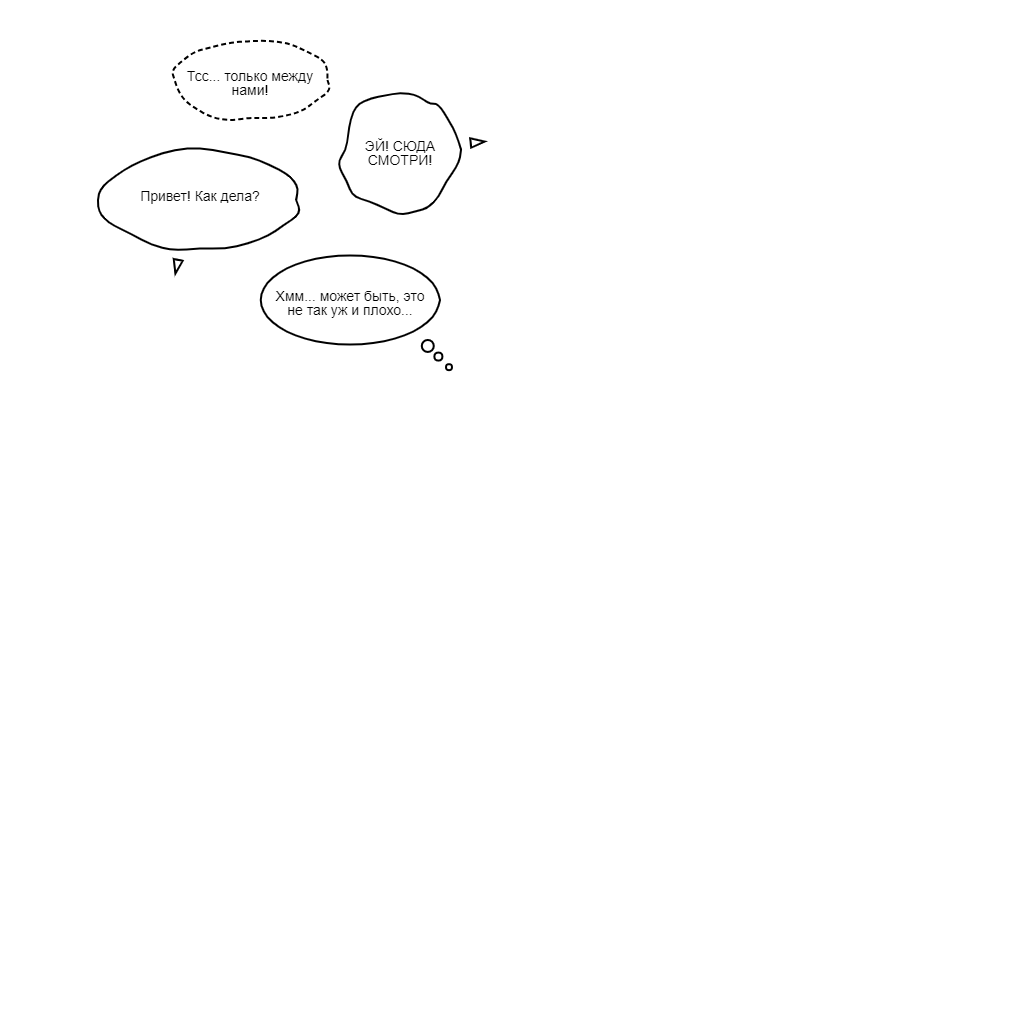
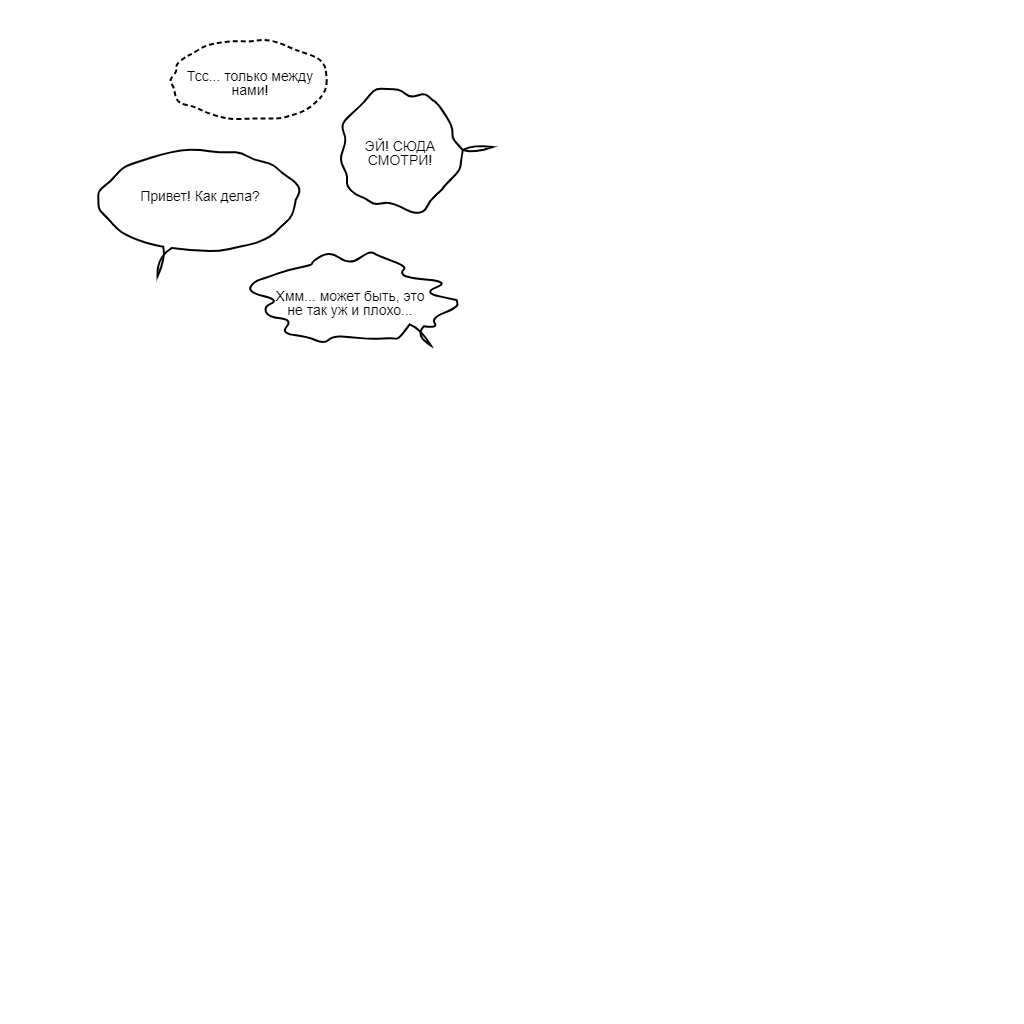
05-08-2025_22-52 Очень интересно получилось!

diff --git a/render_bubbles.js b/render_bubbles.js
@@ -3,8 +3,8 @@ window.renderReady = false;
 window.renderBubbles = async function (points) {
   const stage = new Konva.Stage({
     container: 'container',
-    width: 800,
-    height: 600
+    width: 1024,
+    height: 1024
   });
 
   const layer = new Konva.Layer();
@@ -56,67 +56,88 @@ async function createBubbleFromPoint(point) {
   return group;
 }
 
-// Создание пути пузыря с неровностями и плавными кривыми
+// Создание пути пузыря с плавным хвостиком
 function createBubblePath(point) {
   const w = point.width;
   const h = point.height;
   const rX = w / 2;
   const rY = h / 2;
 
-  const segments = 24;
-  const irregularity = point.irregularity ?? 0; // степень неровности
-
+  const segments = 32;
+  const irregularity = point.irregularity ?? 0;
   const points = [];
 
-  // Генерация точек с неровностью
+  // Генерация точек пузыря
   for (let i = 0; i < segments; i++) {
     const angle = (Math.PI * 2 * i) / segments;
     const radiusX = rX * (1 + (Math.random() - 0.5) * irregularity);
     const radiusY = rY * (1 + (Math.random() - 0.5) * irregularity);
     points.push({
       x: Math.cos(angle) * radiusX,
-      y: Math.sin(angle) * radiusY
+      y: Math.sin(angle) * radiusY,
+      angle
     });
   }
 
-  // Формируем путь с кривыми Безье
-  let path = `M ${points[0].x} ${points[0].y}`;
+  // Определяем угол хвостика
+  let tailIndex = null;
+  if (point.hasTail && point.style !== "thought") {
+    const dx = point.anchorX - point.x;
+    const dy = point.anchorY - point.y;
+    const tailAngle = Math.atan2(dy, dx);
+
+    tailIndex = points.reduce((closestIndex, p, idx) => {
+      const diff = Math.abs(normalizeAngle(p.angle - tailAngle));
+      return diff < Math.abs(normalizeAngle(points[closestIndex].angle - tailAngle))
+        ? idx
+        : closestIndex;
+    }, 0);
+  }
+
+  let path = "";
   for (let i = 0; i < points.length; i++) {
     const p0 = points[i];
     const p1 = points[(i + 1) % points.length];
+
+    if (i === 0) {
+      path += `M ${p0.x} ${p0.y}`;
+    }
+
+    // Вставляем хвостик плавными кривыми
+    if (tailIndex !== null && i === tailIndex) {
+      const base = p0;
+      const dx = point.anchorX - point.x;
+      const dy = point.anchorY - point.y;
+      const angle = Math.atan2(dy, dx);
+
+      // Боковые точки у основания хвоста
+      const leftX = base.x + Math.cos(angle + 0.4) * 12;
+      const leftY = base.y + Math.sin(angle + 0.4) * 12;
+      const rightX = base.x + Math.cos(angle - 0.4) * 12;
+      const rightY = base.y + Math.sin(angle - 0.4) * 12;
+
+      // Кончик хвоста
+      const tipX = base.x + Math.cos(angle) * 30;
+      const tipY = base.y + Math.sin(angle) * 30;
+
+      // Плавная левая кривая
+      path += ` Q ${leftX} ${leftY}, ${tipX} ${tipY}`;
+      // Плавная правая кривая
+      path += ` Q ${rightX} ${rightY}, ${base.x} ${base.y}`;
+    }
+
     const midX = (p0.x + p1.x) / 2;
     const midY = (p0.y + p1.y) / 2;
 
     path += ` Q ${p0.x} ${p0.y}, ${midX} ${midY}`;
   }
+
   path += " Z";
-
-  // Хвост (только если есть и не мысль)
-  if (point.hasTail && point.style !== "thought") {
-    const dx = point.anchorX - point.x;
-    const dy = point.anchorY - point.y;
-    const angle = Math.atan2(dy, dx);
-
-    const tailBaseX = Math.cos(angle) * rX;
-    const tailBaseY = Math.sin(angle) * rY;
-
-    const tailTipX = tailBaseX + Math.cos(angle) * 25;
-    const tailTipY = tailBaseY + Math.sin(angle) * 25;
-
-    const leftWingX = tailBaseX + Math.cos(angle + 0.4) * 12;
-    const leftWingY = tailBaseY + Math.sin(angle + 0.4) * 12;
-    const rightWingX = tailBaseX + Math.cos(angle - 0.4) * 12;
-    const rightWingY = tailBaseY + Math.sin(angle - 0.4) * 12;
-
-    path += `
-      M ${leftWingX} ${leftWingY}
-      L ${tailTipX} ${tailTipY}
-      L ${rightWingX} ${rightWingY}
-      Z
-    `;
-  }
-
   return path;
+}
+
+function normalizeAngle(angle) {
+  return ((angle + Math.PI * 2) % (Math.PI * 2));
 }
 
 // Точки для мыслей
